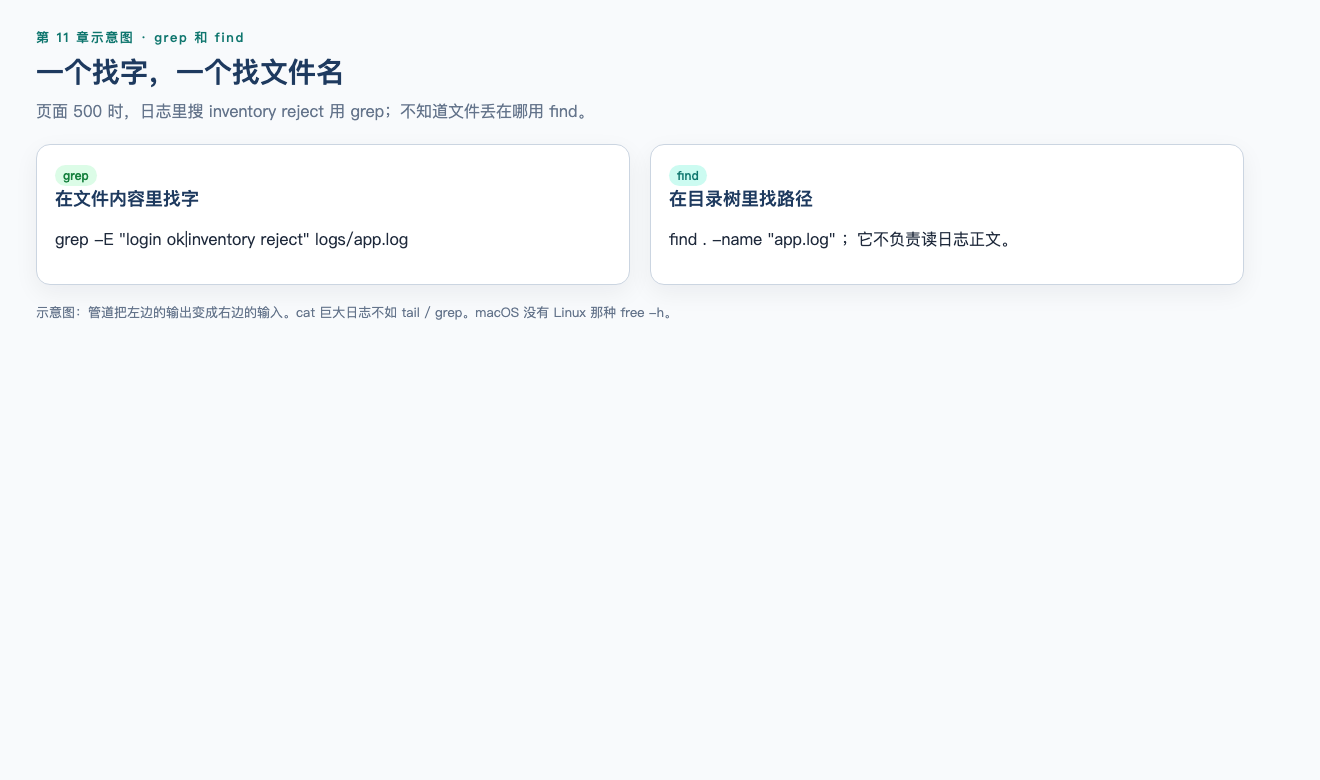
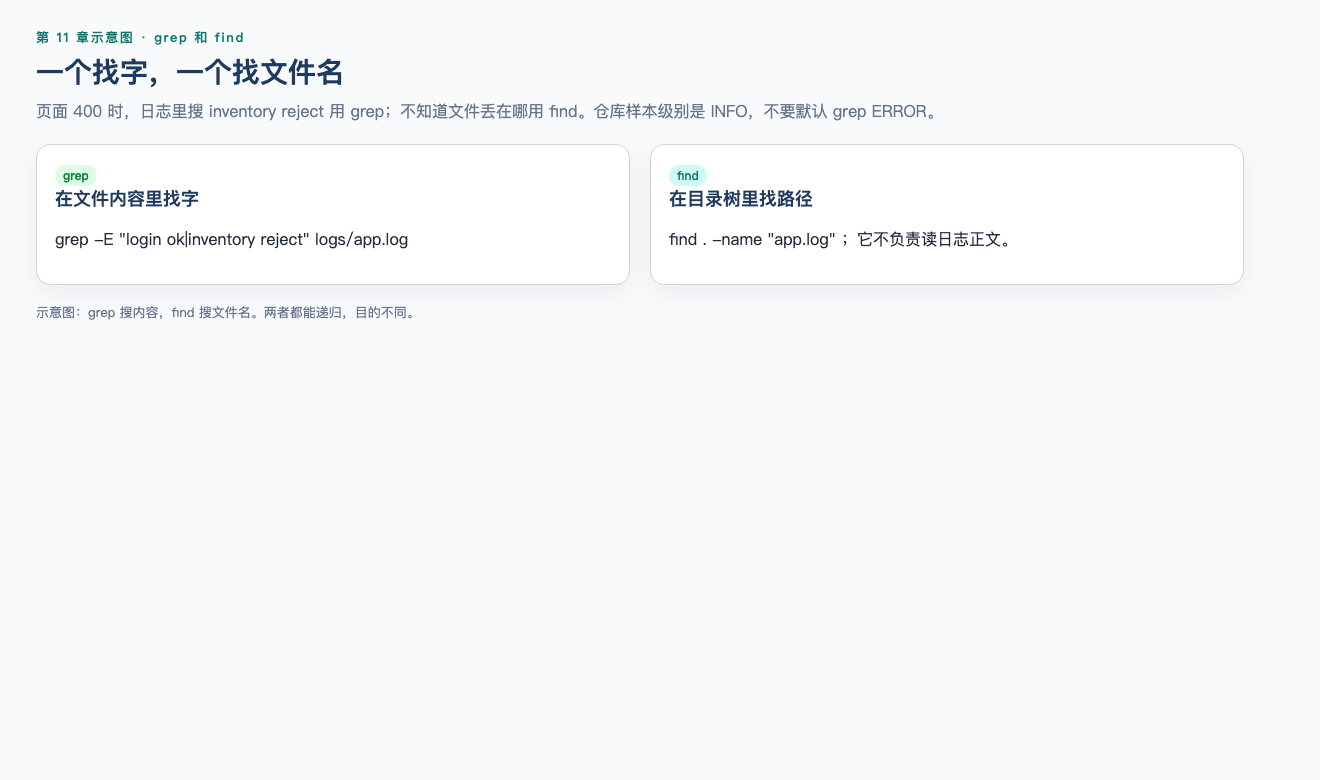
fix(ch11): curl MiniShop catalog without keyword=mouse
Bare GET /api/products returns three items. mouse yields an empty list.

Changed region(s): [[0.0621, 0.3692, 0.4659, 0.4308], [0.4348, 0.1231, 0.7144, 0.1538]]

diff --git a/chapters/assets/diagrams/ch11-grep-find.html b/chapters/assets/diagrams/ch11-grep-find.html
@@ -3,7 +3,7 @@
 <body><div class="page">
 <p class="kicker">第 11 章示意图 · grep 和 find</p>
 <h1>一个找字，一个找文件名</h1>
-<p class="lead">页面 500 时，日志里搜 inventory reject 用 grep；不知道文件丢在哪用 find。</p>
+<p class="lead">页面 400 时，日志里搜 inventory reject 用 grep；不知道文件丢在哪用 find。仓库样本级别是 INFO，不要默认 grep ERROR。</p>
 <div class="row"><div class="col card"><span class="tag tag-ok">grep</span><h2>在文件内容里找字</h2><p style="font-size:16px;line-height:1.55">grep -E "login ok|inventory reject" logs/app.log</p></div><div class="col card"><span class="tag tag-info">find</span><h2>在目录树里找路径</h2><p style="font-size:16px;line-height:1.55">find . -name "app.log" ；它不负责读日志正文。</p></div></div>
-<p class="caption">示意图：管道把左边的输出变成右边的输入。cat 巨大日志不如 tail / grep。macOS 没有 Linux 那种 free -h。</p>
+<p class="caption">示意图：grep 搜内容，find 搜文件名。两者都能递归，目的不同。</p>
 </div></body></html>

diff --git a/chapters/assets/diagrams/ch11-pipe.html b/chapters/assets/diagrams/ch11-pipe.html
@@ -13,5 +13,5 @@
       <div class="col card" style="text-align:center"><b>屏幕 / 文件</b><p>给人看或重定向保存</p></div>
     </div>
     
-<p class="caption">示意图：命令会进 history。curl 复现登录时不要把密码和 Cookie 留在可分享记录里。</p>
+<p class="caption">示意图：| 把左边输出接到右边输入；&gt; 会覆盖文件。cat 巨大日志不如 tail / grep。</p>
 </div></body></html>

diff --git a/chapters/11-linux.md b/chapters/11-linux.md
@@ -7,11 +7,18 @@
 
 ## 这一章解决什么问题
 
-第 10 章能在浏览器里抓住登录请求。接口 500、页面空白或“偶现失败”时，证据往往在服务器上：进程在不在、磁盘满不满、日志里有没有 `ERROR`、同一条 curl 在服务端是什么结果。
+第 10 章能在浏览器里抓住登录请求。接口失败、页面空白或“偶现失败”时，证据往往在服务器上：进程在不在、磁盘满不满、日志里有没有对应那一次请求的一行、同一条 curl 在服务端是什么结果。不要默认去 `grep ERROR`——MiniShop 拒 `qty=11` 的样本是 HTTP **400**、日志 **INFO** `inventory reject`。
 
-初级测试工程师不需要成为 Linux 系统管理员，但要能在授权的测试机或跳板机上完成这些事：走进目录、读日志、查进程、看磁盘、用脱敏后的 curl 复现接口。
+初级测试工程师不需要成为 Linux 系统管理员，但要能走进目录、读日志、查进程、看磁盘、用脱敏后的 curl 复现接口。
 
-本章以 **Linux 服务器** 为目标环境。macOS 终端能练习大部分命令，但 `ls`、`grep`、`free` 等与 GNU/Linux 并不完全相同。正式排障应 SSH 到 Linux 测试机，不要假设本机 macOS 的输出可以原样写进缺陷。
+**今天先走这条线（能动手再翻其余）：**
+11.1～11.3 确认路径 → 11.5～11.7 读日志、`grep`、管道 → 立刻做
+[实操 11-1](../practice/11-log-grep/README.md) → 11.8 看进程是否还在、11.10 `df -h`、11.13 脱敏 curl。
+
+**可后读：** 11.4 文件管理、11.9 `chmod`（⭐⭐）、11.11 `ssh`/`scp`（没有授权测试机就跳，工作实战写「仅本机练习」）。
+`kill -9` 只是 11.8 的反例，不是本章主技能。
+
+本章以 **Linux 服务器** 为目标环境。macOS 终端能练习大部分命令，但 `ls`、`grep`、`free` 等与 GNU/Linux 并不完全相同。正式排障应 SSH 到 Linux 测试机，不要假设本机 macOS 的输出可以原样写进缺陷。多数读者用本机就能完成本章主线，不必先有跳板机。
 
 Linux 与第 12 章的 SQL 是并列基础，互不作为硬前置。
 
@@ -50,15 +57,15 @@ MiniShop 测试环境提交购物车数量 11 后，页面提示 `qty exceeds st
 - 磁盘是否已满导致无法写日志或上传；
 - 用同一条脱敏 curl 是否稳定复现。
 
-```mermaid
-flowchart TD
-    A[浏览器 Network 已记录状态码] --> B[SSH 到授权测试机]
-    B --> C[确认目录与服务进程]
-    C --> D[按时间读日志]
-    D --> E[磁盘、内存、权限]
-    E --> F[curl 复现接口]
-    F --> G[把命令输出写入缺陷]
-```
+本机练习（无跳板机）：Network 已记录 400
+→ `cd project/minishop` 并 `pwd`
+→ `grep "inventory reject" evidence/logs/app-sample.log`
+→ `df -h .` → 脱敏 curl → 写入排障记录。
+
+有授权测试机：Network 已记录状态码
+→ SSH 登录 → 确认目录与进程 → 按时间读日志 → 磁盘/内存 → curl 复现 → 写入缺陷。
+
+两条路验收同一句话：页面上看不到的那一行，你能指出来。
 
 只在自己拥有或明确获授权的主机上操作。不要扫描未授权网段、不要用 `rm -rf` 清理未知目录、不要把日志里的密码和 Token 贴到聊天工具。
 
@@ -223,12 +230,18 @@ less app.log
 
 `grep` 在**文件内容**里找文本。`find` 在**目录树**里找文件。
 
-下面 `grep ERROR` 是一般排障示例，不是 MiniShop 仓库样本。`qty=11` 的 `inventory reject` 在 `evidence/logs/app-sample.log` 里是 **INFO**；对着 MiniShop 请 grep `inventory reject`，不要默认 ERROR。
+对着 MiniShop 仓库样本，先搜业务关键字，不要默认 ERROR：
 
 ```bash
-grep ERROR app.log
+grep -n "inventory reject" evidence/logs/app-sample.log
+```
+
+命中行是 **INFO**，HTTP 是 **400**。`grep ERROR` 对这份样本是 0 行，不代表接口没拒。
+
+一般排障（任意应用、非本仓库样本）才常用：
+
+```bash
 grep -n ERROR app.log
-grep -i error app.log
 grep -E "ERROR|WARN" app.log
 find . -name "*.log"
 find . -name "*minishop*"
@@ -414,10 +427,10 @@ scp tester@192.0.2.10:/var/log/minishop/app.log ./
 
 `curl` 在终端发 HTTP 请求。它复现的是接口，不是浏览器渲染。第 10 章 Copy as cURL 的结果，脱敏后可以在这里跑。
 
-最小读取。MiniShop v1.0 是 `http://127.0.0.1:8765/api/products`，不要打无前缀的 `/products`。
+最小读取。MiniShop v1.0 是 `http://127.0.0.1:8765/api/products`，不要打无前缀的 `/products`。无 query 预期 HTTP 200、`items` 3 件（含 `SKU-DEMO-001` 无线鼠标）。过滤可用 `?keyword=SKU-DEMO-001`，或已编码的 `?keyword=%E9%BC%A0%E6%A0%87`（「鼠标」）。不要用 `keyword=mouse`：英文不在中文商品名或 SKU 里，会得到空列表 `{"items":[]}`。
 
 ```bash
-curl -sS -D - -o ./minishop-curl-body.txt "http://127.0.0.1:8765/api/products?keyword=mouse"
+curl -sS -D - -o ./minishop-curl-body.txt "http://127.0.0.1:8765/api/products"
 ```
 
 | 选项 | 作用 |
@@ -698,7 +711,7 @@ macOS 上输入 `free -h` 失败。这能说明 MiniShop 内存泄漏吗？
 1. 练习 1～10 至少完成 9 题，且第 4、6、8、9 题能用自己的话回答；
 2. 在练习目录亲手执行：建目录、写短日志、`grep`、`df -h`；
 3. 完成一次不含明文密码的 curl；
-4. 能口述 `rm -rf`、`kill -9`、`chmod 777` 各自的主要风险。
+4. 能口述：qty=11 的仓库样本为什么是 HTTP 400 + INFO `inventory reject`（不是 500、不是 ERROR）；以及日志时间如何与 Network 对齐。
 
 ## 本章总结
 
